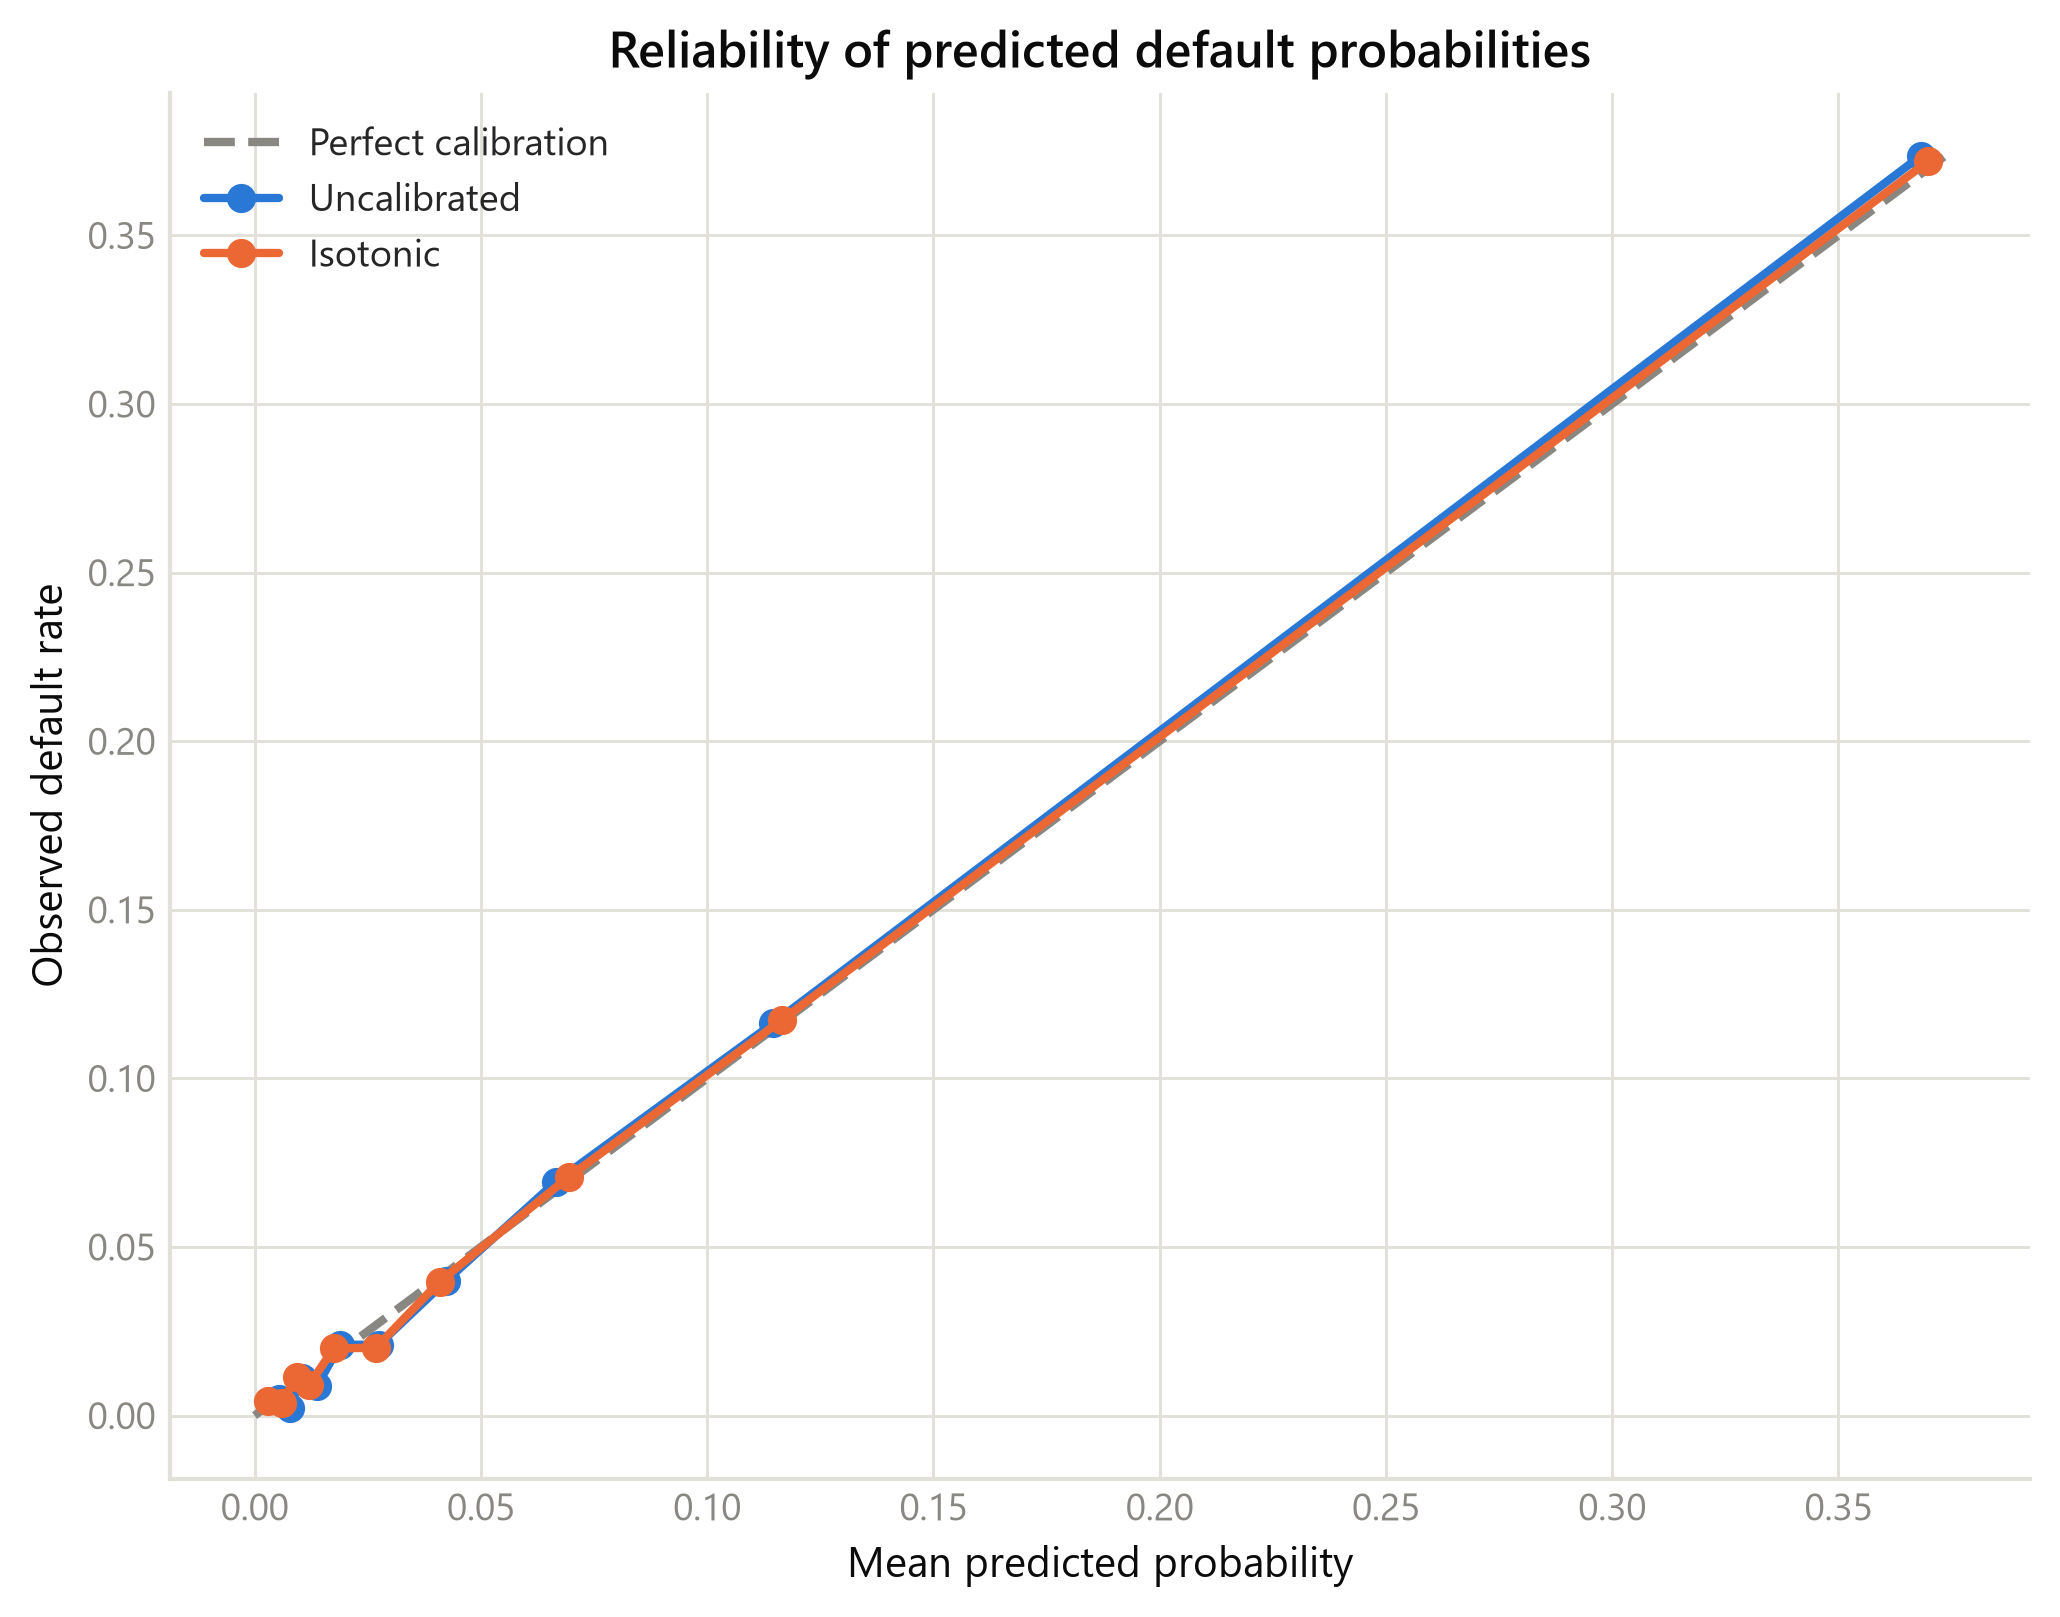
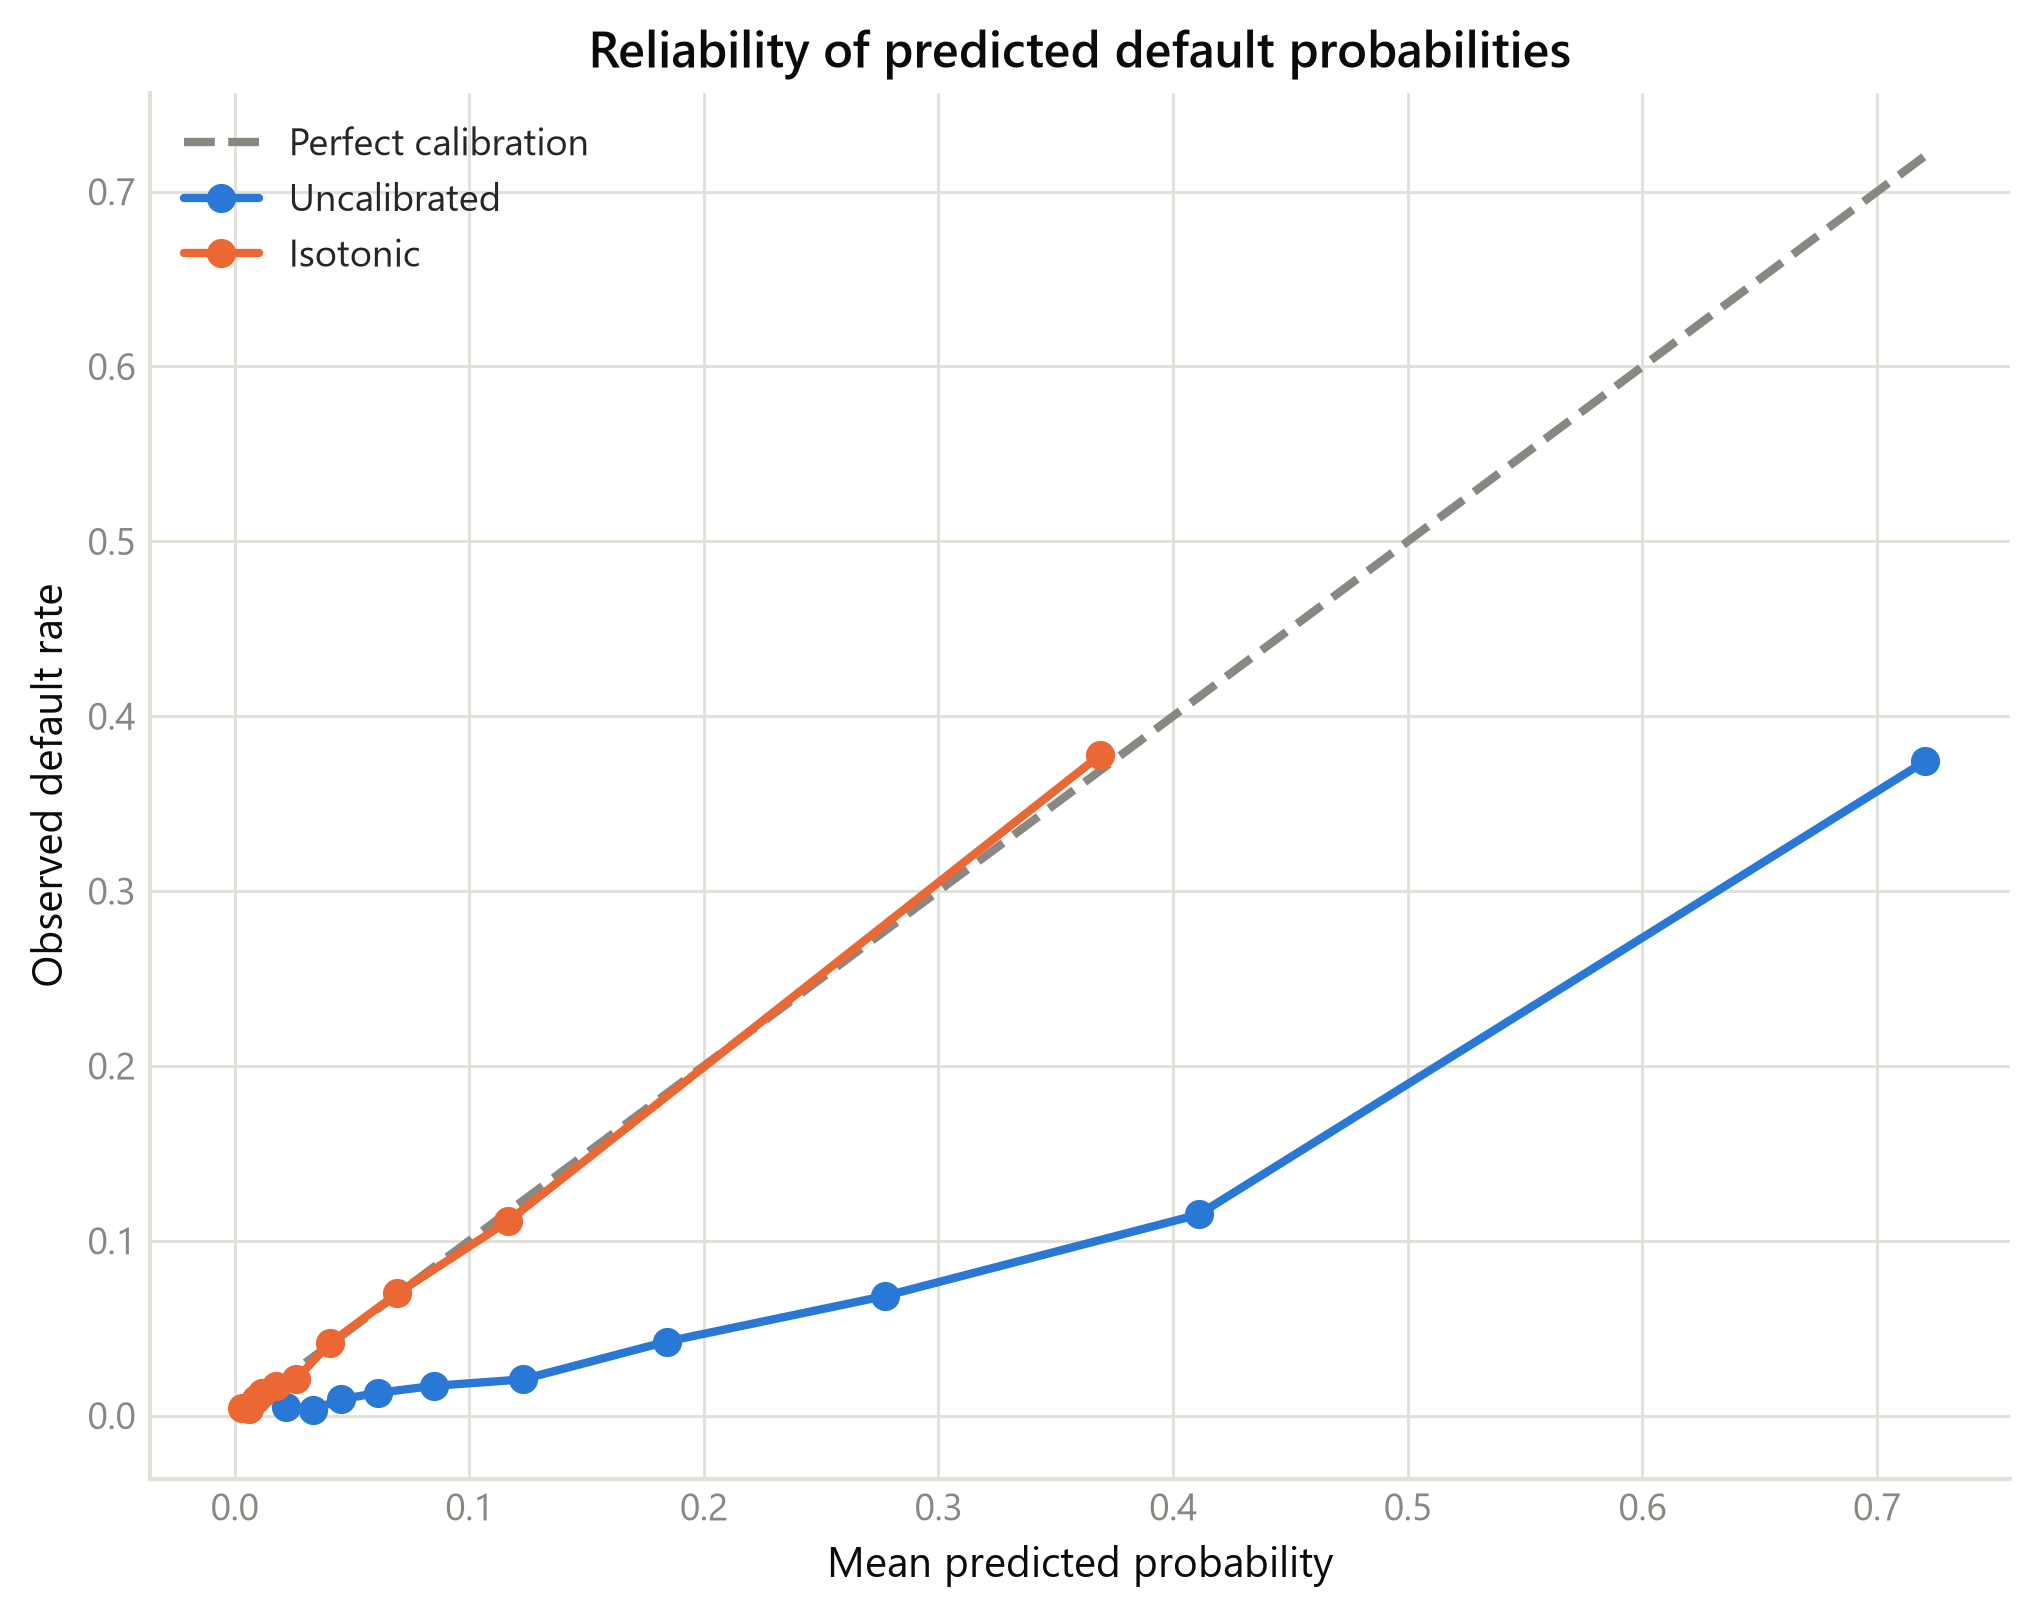
Rewrite the README

diff --git a/src/credit_scoring/threshold.py b/src/credit_scoring/threshold.py
@@ -26,8 +26,6 @@ def operating_point(
         "precision": tp / (tp + fp) if tp + fp else 0.0,
         "false_positives": int(fp),
         "false_negatives": int(fn),
-        # In currency rather than in units of one error, so the figure can be
-        # read against a budget instead of only against another cut-off.
         "total_cost": fp * cost_fp + fn * cost_fn,
     }
 
@@ -43,7 +41,6 @@ def sensitivity_table(
         {"cost_ratio": k, **operating_point(y_true, y_proba, 1.0 / (k + 1.0), loss / k, loss)}
         for k in cfg.threshold.sensitivity_k_grid
     ]
-    
     return pd.DataFrame(rows).drop(columns="total_cost")
 
 

diff --git a/README.md b/README.md
@@ -2,31 +2,25 @@
 
 Probability-of-default modelling on the *Give Me Some Credit* dataset, from
 exploratory analysis through hyperparameter search to a served scoring API with
-per-applicant explanations.
+per-applicant decline reasons, using SHAP values.
 
-Four models are compared under an identical cross-validation protocol, the
-winner is selected before the test set is opened, the accept/reject cut-off is
-derived from the cost of the two error types rather than chosen by hand, and
-every declined application comes with the reasons behind it.
+Four models are compared. Logistic Regression, Random Forest, XGBoost, LightGBM
+
 
 ---
 
 ## Results
 
-Held-out test set, 30,000 applications never used in any decision:
+Test set, 30,000 applications:
 
 | Model | PR-AUC | ROC-AUC | Gini | KS | Brier |
 |---|---|---|---|---|---|
-| **XGBoost** | **0.4105** | **0.8699** | **0.7398** | 0.5818 | **0.0485** |
-| LightGBM | 0.4098 | 0.8696 | 0.7392 | **0.5833** | 0.0486 |
-| Random Forest | 0.4051 | 0.8673 | 0.7346 | 0.5793 | 0.0489 |
-| Logistic Regression | 0.3473 | 0.8364 | 0.6729 | 0.5163 | 0.1656 |
+| **LightGBM** | **0.4082** | **0.8693** | **0.7386** | **0.5833** | 0.0780 |
+| XGBoost | 0.4078 | 0.8688 | 0.7377 | 0.5807 | 0.0687 |
+| Random Forest | 0.4046 | 0.8669 | 0.7338 | 0.5792 | 0.0489 |
+| Logistic Regression | 0.3832 | 0.8602 | 0.7203 | 0.5621 | 0.1466 |
 
-PR-AUC is the headline metric: only 6.68% of applications default, so a measure
-that ignores the easy negatives is the one that reflects the task.
-
-At the derived cut-off of 0.1667 the policy approves **89.9%** of applications
-and carries a **3.26%** default rate among those approved.
+PR-AUC leads because only 6.68% of applications default.
 
 <p align="center">
   <img src="docs/assets/confusion_matrix.png" width="420" alt="Confusion matrix at the cost-based cut-off">
@@ -37,19 +31,13 @@ and carries a **3.26%** default rate among those approved.
 
 ## How the model was chosen
 
-The 150,000 applications are split 80/20, stratified on the target. **The test
-set takes no part in any decision** — not in the exploratory analysis, not in
-the outlier bounds or imputation medians, not in tuning, and not in model
-selection.
-
-Inside the training set, 5-fold stratified cross-validation answers two
-questions:
+The 150,000 applications are split 80/20, stratified on the target.
 
 ```
 150,000 applications
    |
    +-- 120,000 TRAINING -------------------------+     30,000 TEST
-   |                                             |     (sealed)
+   |                                             |     
    |  [1] which hyperparameters                  |
    |      Optuna, 30 trials x 4 models x 5 folds |
    |      = 600 fits, all discarded              |
@@ -57,50 +45,61 @@ questions:
    |  [2] which model                            |
    |      4 tuned configurations, same folds     |
    |      = 20 fits, all discarded               |
-   |      -> XGBoost                             |
+   |      -> LightGBM                            |
    |                                             |
    |  [3] one fit on all 120,000 -> the model    |
    +---------------------------------------------+
                                                  |
-                                   one measurement +--> reported above
+                                   
 ```
 
-Cross-validation here is a measuring instrument, not a training step: every
-model fitted inside a fold is thrown away.
+Cross-validation:
 
-**XGBoost and LightGBM tied.** Their cross-validated PR-AUC differed by 0.0004,
-less than one standard error, and they swapped places depending on the metric.
-The tie was broken on reproducibility, not performance. The choice was locked in
-before the test set was read, and the test result — which happens to agree — did
-not influence it.
+| | mean PR-AUC | standard error |
+|---|---|---|
+| LightGBM | 0.4034 | 0.0023 |
+| XGBoost | 0.4017 | 0.0024 |
+| Random Forest | 0.3988 | 0.0014 |
+| Logistic Regression | 0.3715 | 0.0034 |
 
-### Calibration was measured, then dropped
+---
 
-The decision rule below needs probabilities that are right in level, not merely
-in rank, so isotonic calibration was fitted and compared against the raw model.
+## Calibration
 
-| | PR-AUC | Brier | Mean predicted probability |
-|---|---|---|---|
-| Uncalibrated | 0.4105 | 0.0485 | 0.0676 |
-| Isotonic | 0.4111 | 0.0485 | 0.0676 |
+The cut-off below needs probabilities that are right in level, so isotonic calibration is fitted inside a 5-fold wrapper: each fold
+learns its map on the part of the data its model never saw.
 
-The tuned model already predicted an average default probability of 0.0676
-against an observed rate of 0.0668, a 1.2% discrepancy, because the search
-settled on `scale_pos_weight ≈ 1.0` and never distorted the probability scale.
-Calibration left the Brier score unchanged and was therefore dropped, with the
-experiment kept in the repository as the evidence.
+| | PR-AUC | KS | Brier | ECE |
+|---|---|---|---|---|
+| Uncalibrated | 0.4082 | 0.5833 | 0.0780 | 0.1294 |
+| Isotonic | 0.4078 | 0.5818 | 0.0486 | 0.0026 |
+
 
 <p align="center">
   <img src="docs/assets/calibration_curve.png" width="520" alt="Reliability curve before and after isotonic calibration">
 </p>
+
+The calibrated model decides;
+`credit_model_uncalibrated.pkl` exists because TreeSHAP needs one booster while the
+calibrated model is an ensemble of five. Being monotone, the map between them
+preserves the ordering the explanations are about.
+
+---
+
+## Values that are not measurements
+
+The delinquency counters stop at 17 and then have go to 96 and 98; revolving
+utilisation reaches 50,708; `DebtRatio` holds a raw amount rather than a ratio
+wherever income is missing. These are values that measure nothing, so they are handled separately from outliers:
+
+
 
 ---
 
 ## The decision cut-off
 
 Rejecting a sound applicant forgoes the margin `r`; approving one who defaults
-loses `LGD` of the exposure. Comparing the expected cost of each decision for an
-applicant with predicted probability `p`:
+loses `LGD` of the exposure. For an applicant with predicted probability `p`:
 
 ```
 approve:  p * LGD * EAD          reject:  (1 - p) * r * EAD
@@ -108,12 +107,9 @@ approve:  p * LGD * EAD          reject:  (1 - p) * r * EAD
 
 Rejecting is cheaper once `p > 1 / (k + 1)`, where `k = LGD / r`. The exposure
 cancels, so the cut-off does not depend on loan size. With `LGD = 0.65` and
-`r = 0.13`, `k = 5` and the cut-off is **0.1667**.
+`r = 0.13`, `k = 5` and the cut-off is 0.1667.
 
-`k` is an assumption rather than a measurement — the dataset carries no loan
-amounts or recoveries — so the policy is published across `k = 2` to `k = 10` in
-`reports/tables/threshold_sensitivity.csv`. Approval rate falls from 95.2% to
-81.9% across that range.
+At that cut-off the policy approves 89.4% of applications and carries a 3.16% default rate among those approved.
 
 ---
 
@@ -126,12 +122,6 @@ SHAP contributions come from `TreeExplainer`, exact rather than sampled, over a
   <img src="docs/assets/shap_beeswarm.png" width="760" alt="SHAP summary plot">
 </p>
 
-Revolving utilisation separates applicants on a continuous scale, while the
-three delinquency counters act as near-switches: their absence gives everyone a
-small, uniform benefit, their presence penalises heavily and unevenly.
-
-The same values drive the decline reasons returned by the API, so the
-explanation a credit analyst reads is the one the model actually used.
 
 ---
 
@@ -145,60 +135,54 @@ pip install -e ".[app,dev,data]"
 python scripts/download_data.py
 ```
 
-The stages run in order; each writes its results to `reports/` and prints them.
+The stages run in order and each one prints its results as well as writing them:
 
-| Step | Command | Produces | Time |
-|---|---|---|---|
-| 1 | `python scripts/run_eda.py` | 25 figures, 7 tables | 1 min |
-| 2 | `python scripts/run_tuning.py` | Trial history, tuned parameters written back to the config | 85 min |
-| 3 | `python scripts/run_comparison.py` | Cross-validated comparison of the four models | 12 min |
-| 4 | `python scripts/run_evaluation.py` | Test metrics for the four models | 5 min |
-| 5 | `python scripts/run_calibration.py` | Calibration experiment and reliability curve | 7 min |
-| 6 | `python scripts/run_training.py` | `models/credit_model.pkl` and its metadata | 2 min |
-| 7 | `python scripts/run_explainability.py` | SHAP figures and reason codes | 2 min |
-| 8 | `python scripts/run_threshold.py` | Confusion matrix and sensitivity analysis | 1 min |
+| Step | Command | Produces |
+|---|---|---|
+| 1 | `python scripts/run_eda.py` | Figures and tables |
+| 2 | `python scripts/run_tuning.py` | Tuned parameters written back to the config |
+| 3 | `python scripts/run_selection.py` | Per-fold scores and the pairwise differences behind the choice |
+| 4 | `python scripts/run_evaluation.py` | Test metrics for the four models |
+| 5 | `python scripts/run_calibration.py` | Calibration measurement and reliability curve |
+| 6 | `python scripts/run_training.py` | The calibrated model, the uncalibrated and the metadata |
+| 7 | `python scripts/run_explainability.py` | SHAP figures and reason codes |
+| 8 | `python scripts/run_threshold.py` | Confusion matrix and cost-ratio sensitivity |
 
-Steps 7 and 8 load the saved model, so step 6 must have run.
-
-Hyperparameters are not hard-coded: step 2 writes them into `config/config.yaml`
-with a dated provenance comment, and the full trial history is kept under
-`results/tuning/` so every published number can be traced to the run that
-produced it.
 
 ---
 
-## Serving
+## App
 
 The scoring logic lives in `app/service.py`. The API exposes it over HTTP and
 the dashboard is a pure client — it holds no model and makes no decisions,
 exactly as a production front end would not.
 
 ```bash
-uvicorn app.api:app --port 8000     # first terminal
+uvicorn app.api:app --port 8000    # first terminal
 python app/dashboard.py            # second terminal
 ```
 
 | Address | |
 |---|---|
-| `http://127.0.0.1:8050` | Dashboard |
+| `http://127.0.0.1:8050` | Dashboard | 
 | `http://127.0.0.1:8000/docs` | Interactive API documentation, generated from the schemas |
 
 `POST /predict` takes an application and returns:
 
 ```json
 {
-  "probability": 0.1664,
-  "score": 534,
-  "decision": "approve",
+  "probability": 0.1709,
+  "score": 533,
+  "decision": "reject",
   "threshold": 0.1667,
-  "reason_codes": []
+  "reason_codes": [
+    {"feature": "NumberOfTime30-59DaysPastDueNotWorse", "value": 3.0, "contribution": 1.7465},
+    {"feature": "DebtRatio", "value": 0.648, "contribution": 0.2260},
+    {"feature": "MonthlyIncome", "value": 3325.0, "contribution": 0.1321}
+  ]
 }
 ```
 
-The score is the points scale lenders publish: it rises as risk falls, and every
-20 points doubles the odds of repayment. Reason codes are returned only for a
-decline, since an approval has none to give. A scored application takes
-70–150 ms, the longer path being the one that computes SHAP values.
 
 ```bash
 pytest
@@ -209,28 +193,24 @@ pytest
 ## Repository layout
 
 ```
-config/config.yaml   Every constant the pipeline uses, validated on load
-src/credit_scoring/  Importable package: 12 modules, no entry points
+config/config.yaml   Every constant the pipeline uses
+src/credit_scoring/  Importable package: 13 modules, no entry points
 scripts/             One command-line entry point per stage
-app/                 service.py, the API over it, and the dashboard over that
-tests/               API test suite
-results/tuning/      Full Optuna trial history, tracked in version control
+app/                 service.py, the API and the dashboard
+tests/               API test
+results/             Trial history and selection evidence
 docs/assets/         Figures shown in this README
-data/ models/ reports/   Generated locally, not tracked
+data/ models/ reports/   Generated locally.
 ```
 
-Configuration is validated by pydantic on load, so a malformed value fails
-immediately with the field named, rather than surfacing as a strange result
-forty minutes into a tuning run.
+Configuration is validated by pydantic on load.
 
 ---
 
 ## Data
 
 *Give Me Some Credit*, Kaggle, 2011. 150,000 applications, 10 features, binary
-target marking serious delinquency within two years. The competition rules must
-be accepted on Kaggle before the download script can fetch it.
-
+target marking serious delinquency within two years.
 ## Licence
 
 Released under the [MIT License](LICENSE).
